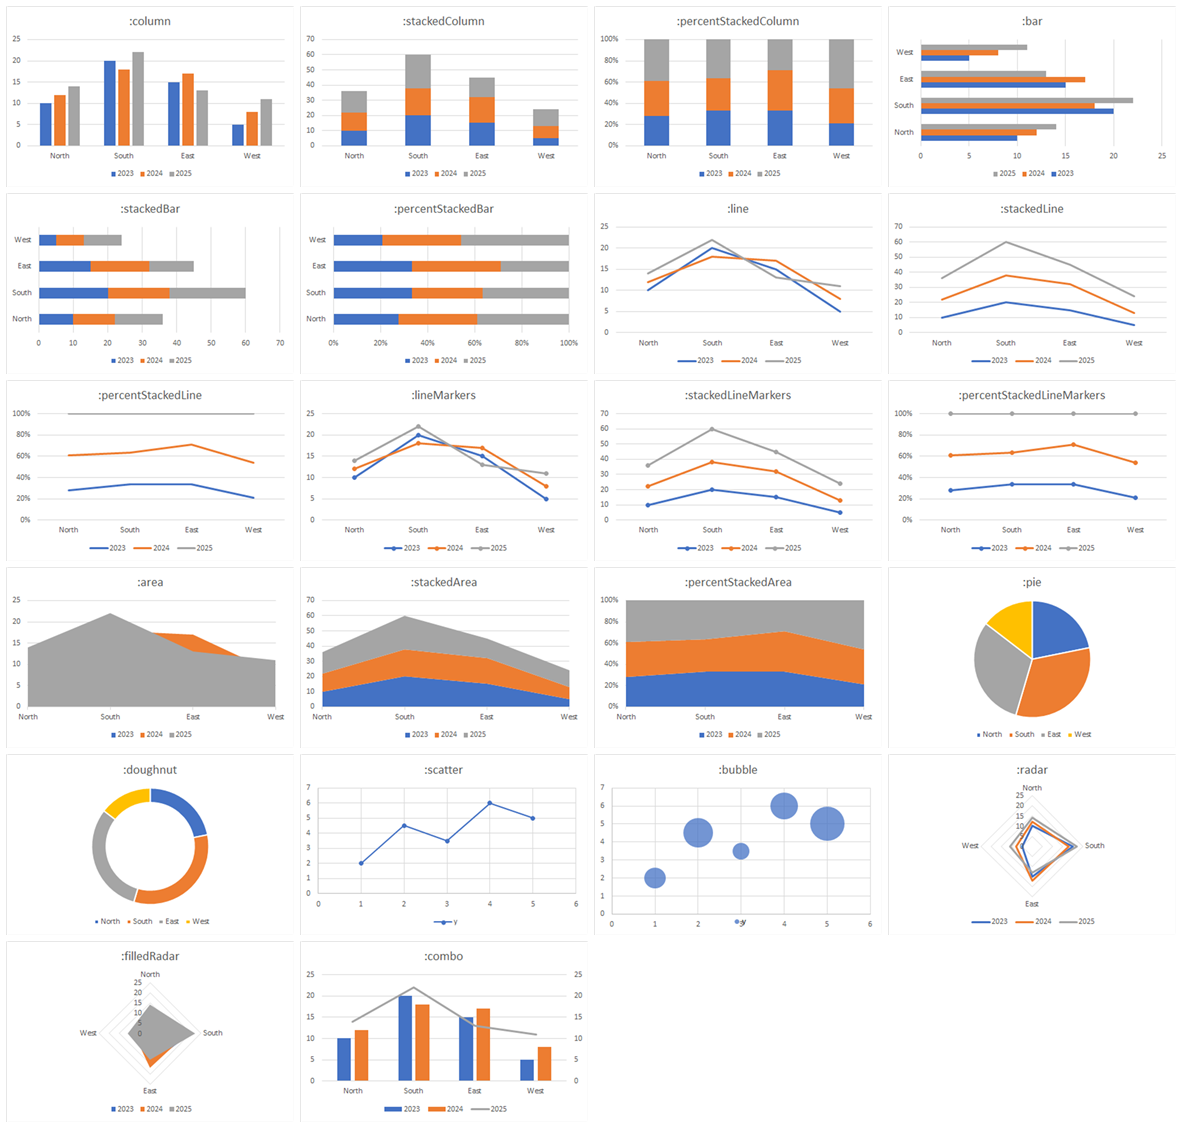
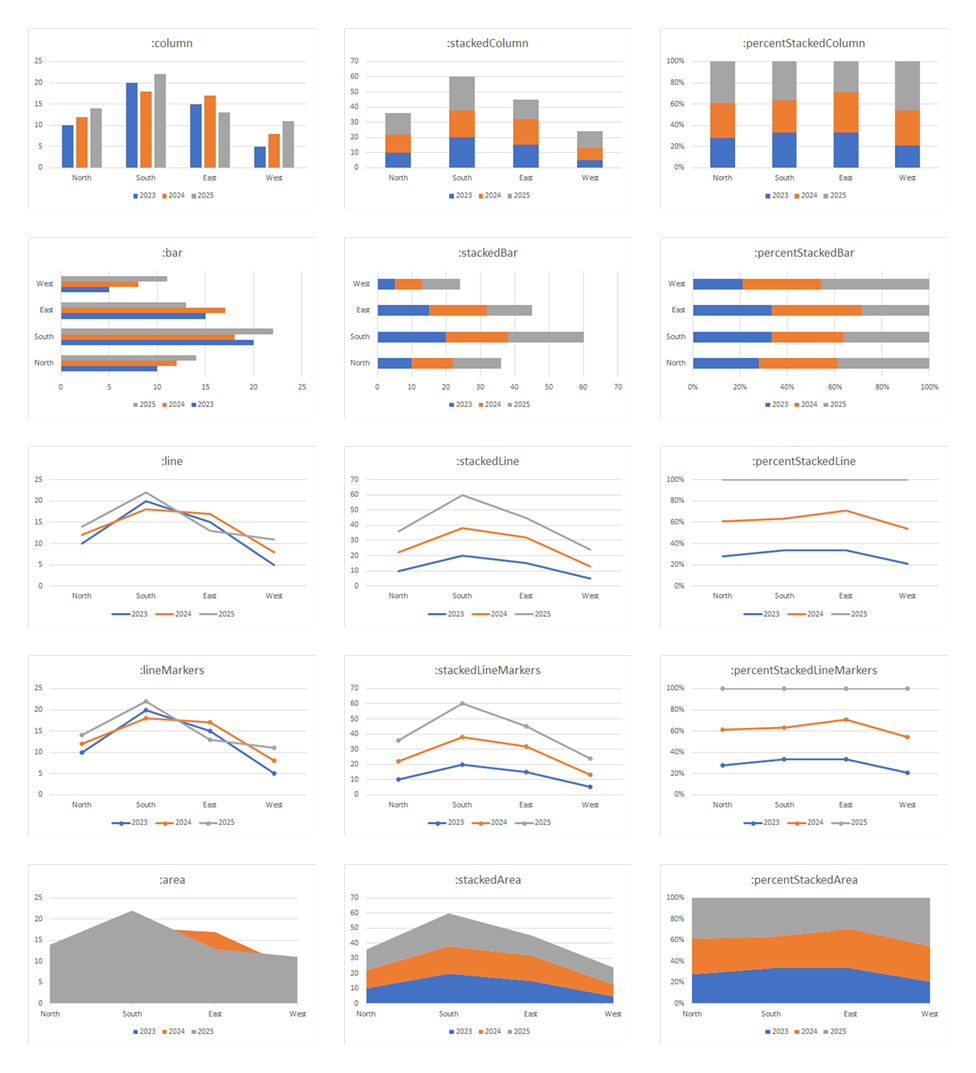
Update docs

diff --git a/docs/src/charts/creatingCharts.md b/docs/src/charts/creatingCharts.md
@@ -76,10 +76,20 @@ schema, where the data block is required.
 | Line with markers | `:lineMarkers` | `:stackedLineMarkers` | `:percentStackedLineMarkers` |
 | Area | `:area` | `:stackedArea` | `:percentStackedArea` |
 
-and `:pie`, `:doughnut`, `:scatter`, `:bubble`, `:radar` and `:filledRadar`, and
-`:combo`, a column and a line chart in one; see [Combo charts](#Combo-charts).
+![The fifteen chart kinds in the table above, each titled with its kind and laid out in the same grid, as Excel draws them in a workbook made by XLSX.newxlsx](../images/chartKinds.png)
 
-![Every chart kind addChart creates, each titled with its kind, from :column to :combo, as Excel draws them in a workbook made by XLSX.newxlsx](../images/chartKinds.png)
+and these:
+
+| | | |
+| --- | --- | --- |
+| Pie | `:pie` | `:doughnut` |
+| XY | `:scatter` | `:bubble` |
+| Radar | `:radar` | `:filledRadar` |
+| Combo | `:combo` | |
+
+`:combo` is a column and a line chart in one; see [Combo charts](#Combo-charts).
+
+![The other seven chart kinds, each titled with its kind and laid out in the same grid as the table above: pie and doughnut, scatter and bubble, radar and filled radar, then combo](../images/chartKindsOther.png)
 
 Each comes from a chart part Excel itself wrote, kept verbatim in the package,
 so a created chart is what Excel would have produced for that kind — including
